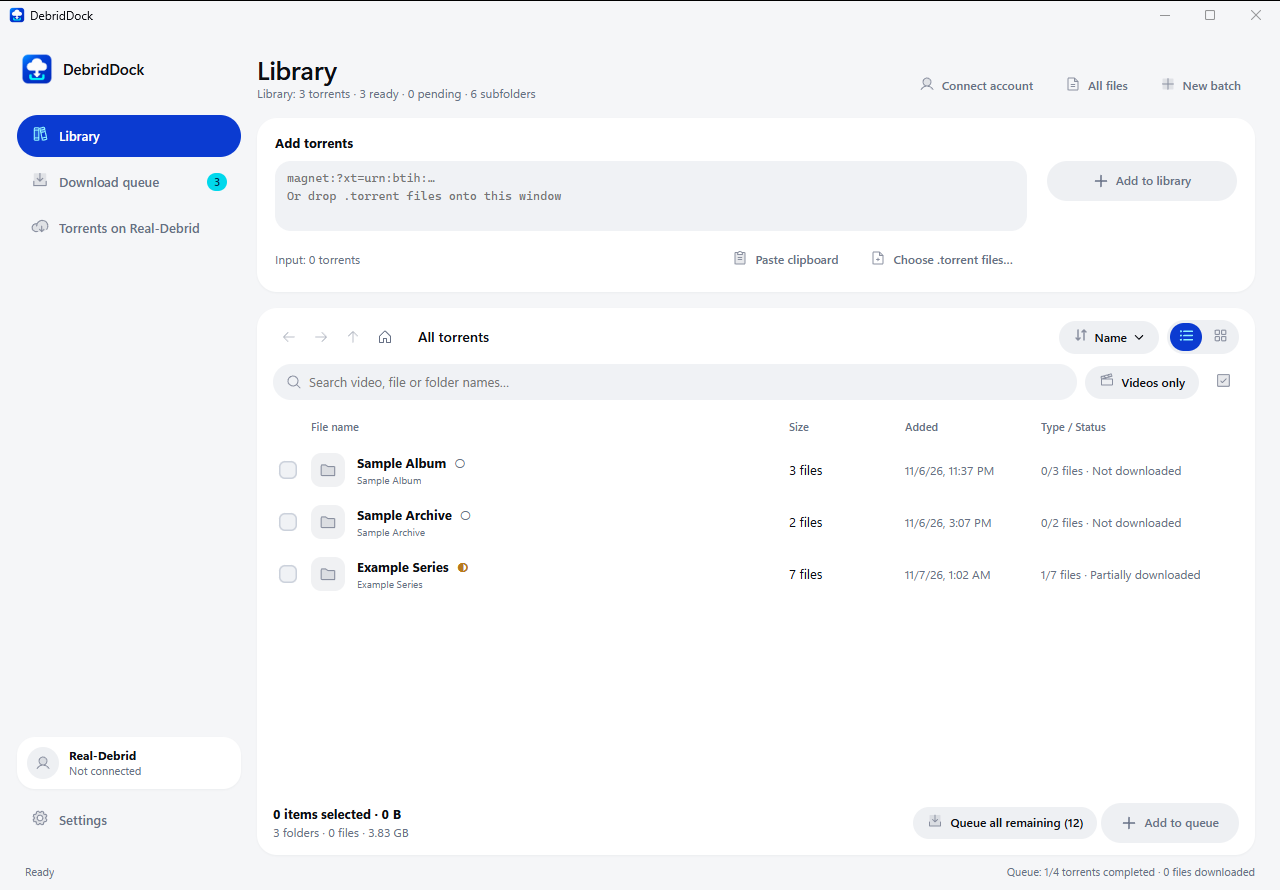
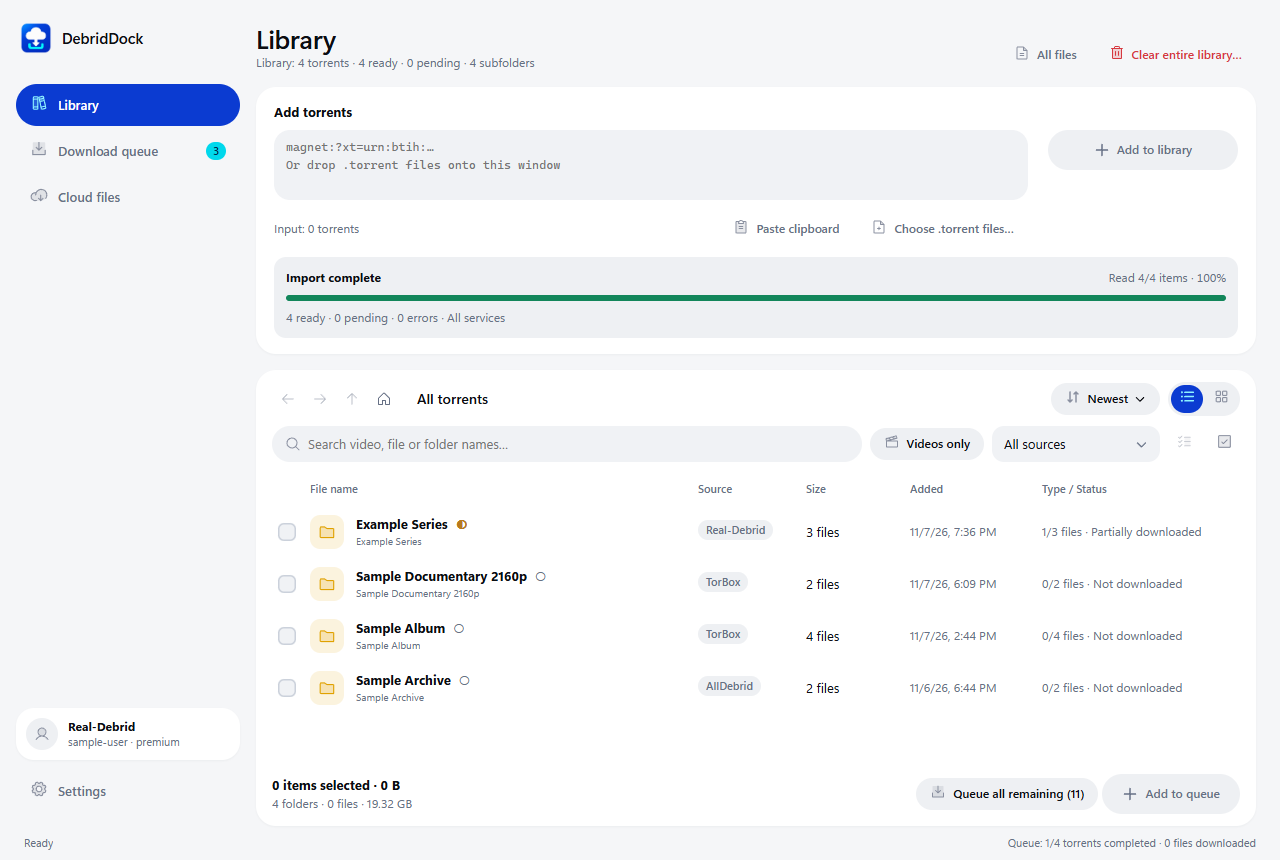
docs: update README and translations with new image assets and descriptions

diff --git a/README.md b/README.md
@@ -156,21 +156,18 @@ DebridDock never connects to torrent peers itself: your computer only downloads 
 
 ![DebridDock download queue with resumable downloads, retry all and per-row controls](docs/images/queue-en.png)
 
-![Library import progress with processed counts and pending imports, Vietnamese interface](docs/images/import-vi.png)
+![Library import progress with processed counts and pending imports across services](docs/images/import-en.png)
 
-![Cloud files across providers and types, with TorBox plan and AirLock quota, Vietnamese interface](docs/images/cloud-vi.png)
+![Cloud files across providers and types, with Real-Debrid and TorBox account panels and AirLock quota](docs/images/cloud-en.png)
 
 <details>
-<summary>Dark appearance and Vietnamese interface</summary>
+<summary>Dark appearance</summary>
 
 ![DebridDock virtual library in dark appearance](docs/images/app-en-dark.png)
 
-![DebridDock in Vietnamese](docs/images/app-vi.png)
-
 </details>
 
-Screenshots show the application UI with sample data; no real account or transfer is involved. The import and cloud
-examples above use the Vietnamese interface.
+Screenshots show the application UI with sample data; no real account or transfer is involved.
 
 ## Download and install
 
